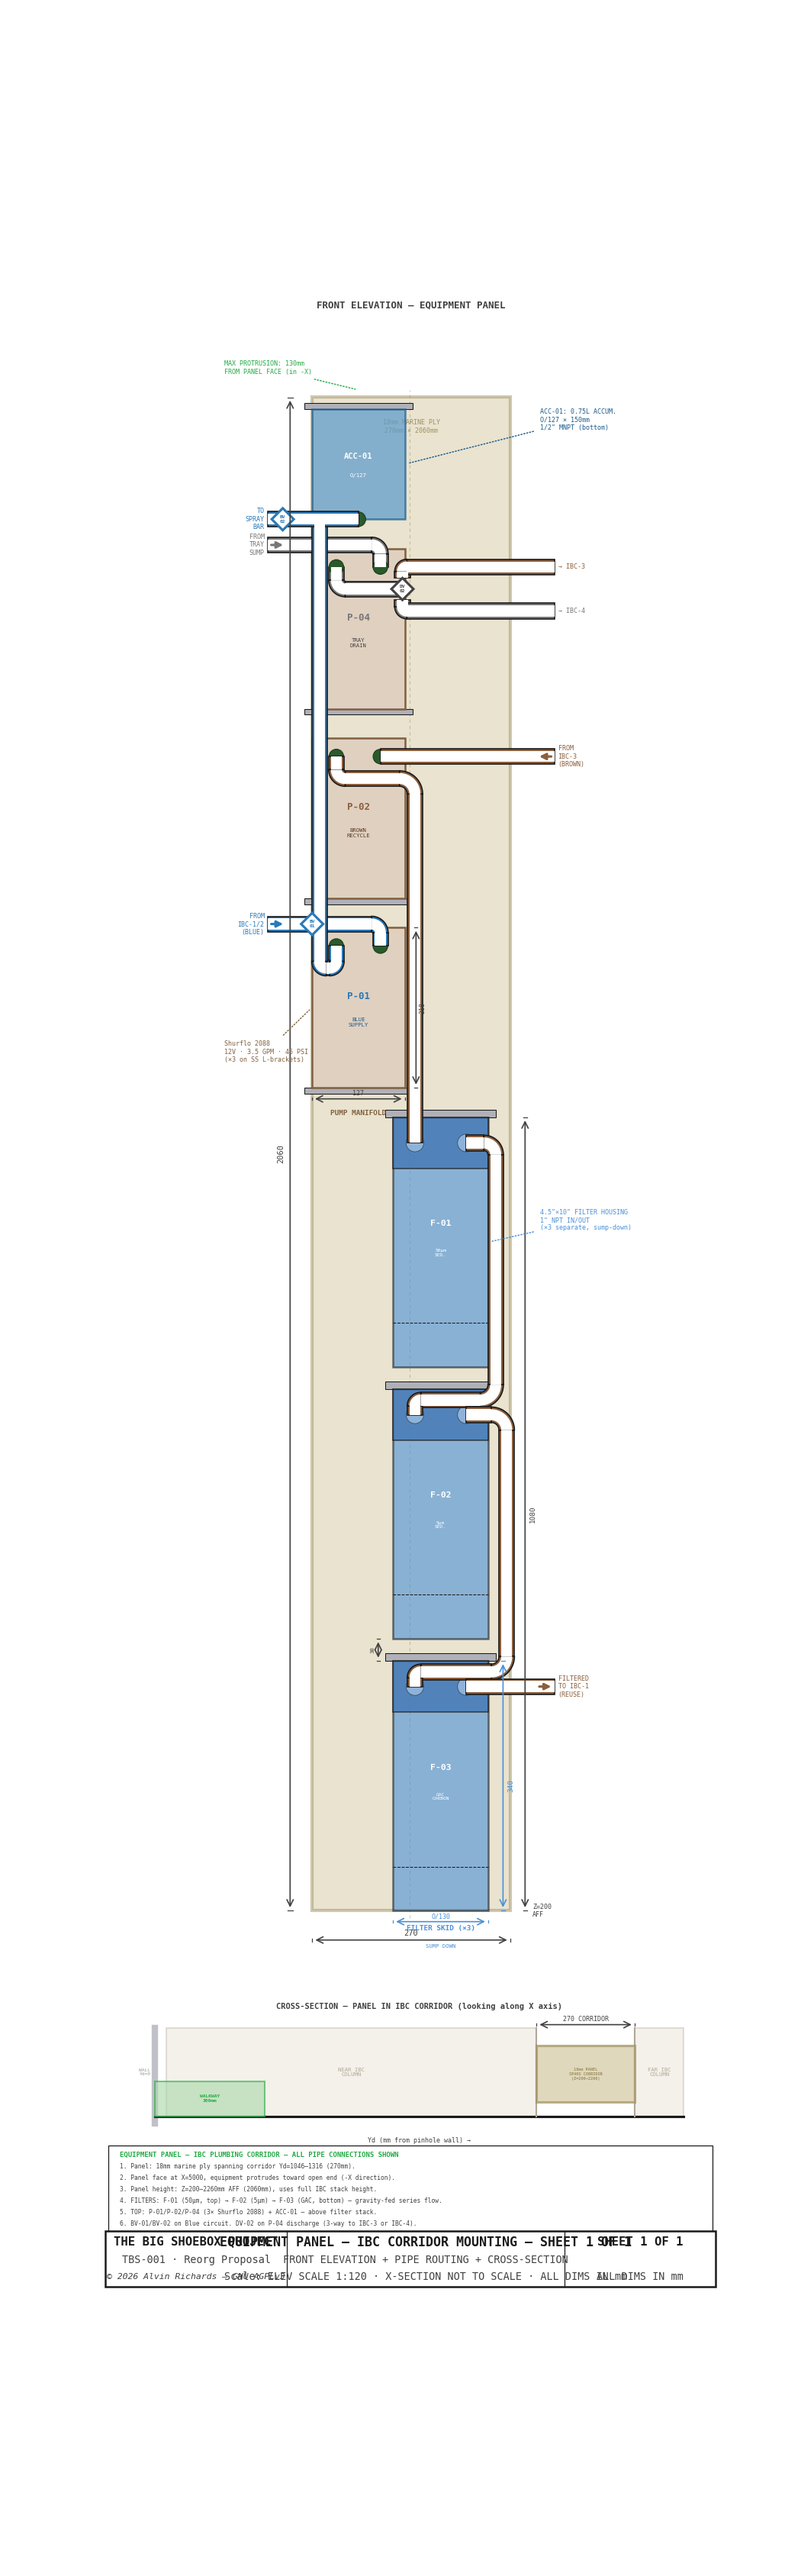
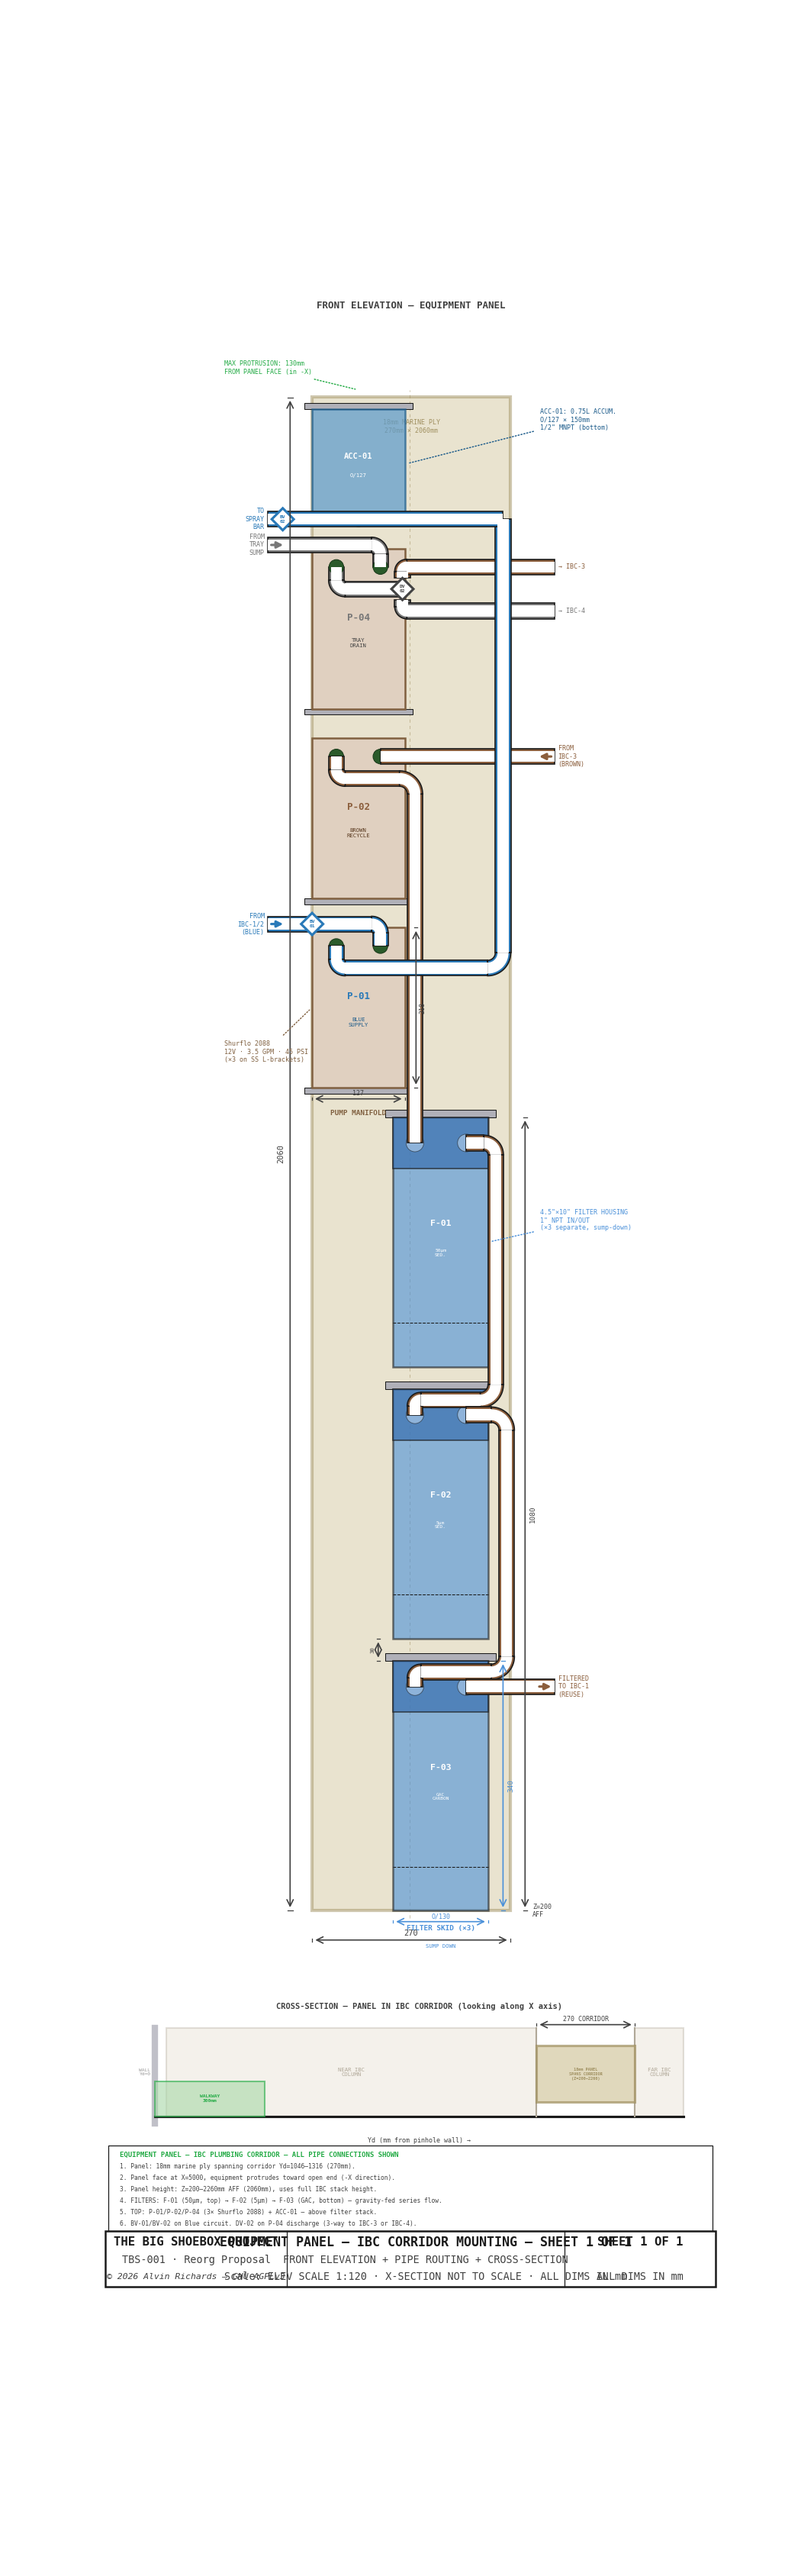
Route blue discharge riser up right side of panel
DISCH_RAIL from 10 to 260 — riser runs along right panel edge.
Horizontal at ACC_Z extends from EXIT_L through ACC port to riser.
Crosses brown/black pipes cleanly via Z_DISCH zorder.

Changed region(s): [[0.3657, 0.1867, 0.64, 0.4044]]

diff --git a/generate_panel_layout.py b/generate_panel_layout.py
@@ -329,7 +329,7 @@ F_IN_YD  = FILT_COL - 35
 F_OUT_YD = FILT_COL + 35
 
 # ── Routing rails ──
-DISCH_RAIL = 10     # Blue discharge riser (inside panel, left of outlet)
+DISCH_RAIL = 260    # Blue discharge riser (right side of panel)
 INTERZONE  = F_IN_YD                         # pump-to-filter transition
 JMPR_RAIL1 = FILT_COL + FILT_OD // 2 + 10   # 10mm outside housing
 JMPR_RAIL2 = JMPR_RAIL1 + 15                # 15mm further out
@@ -485,9 +485,9 @@ draw_pipe_path(ax,
     [PORT_OUT_YD, PORT_OUT_YD, DISCH_RAIL, DISCH_RAIL],
     [P01_PORT_Z, P01_PORT_Z - PORT_DROP, P01_PORT_Z - PORT_DROP, ACC_Z],
     PIPE_OD, PIPE_WALL, fc=C_BLUE, zorder=Z_DISCH)
-# Horizontal at ACC_Z: exit LEFT to spray bar + tee RIGHT to ACC port
+# Horizontal at ACC_Z: exit LEFT to spray bar, through ACC port, to riser RIGHT
 draw_pipe_path(ax,
-    [EXIT_L, ACC_YD],
+    [EXIT_L, DISCH_RAIL],
     [ACC_Z, ACC_Z],
     PIPE_OD, PIPE_WALL, fc=C_BLUE, zorder=Z_DISCH)
 draw_ball_valve(BV02_YD, BV02_Z, "BV\n02", C_BLUE)
